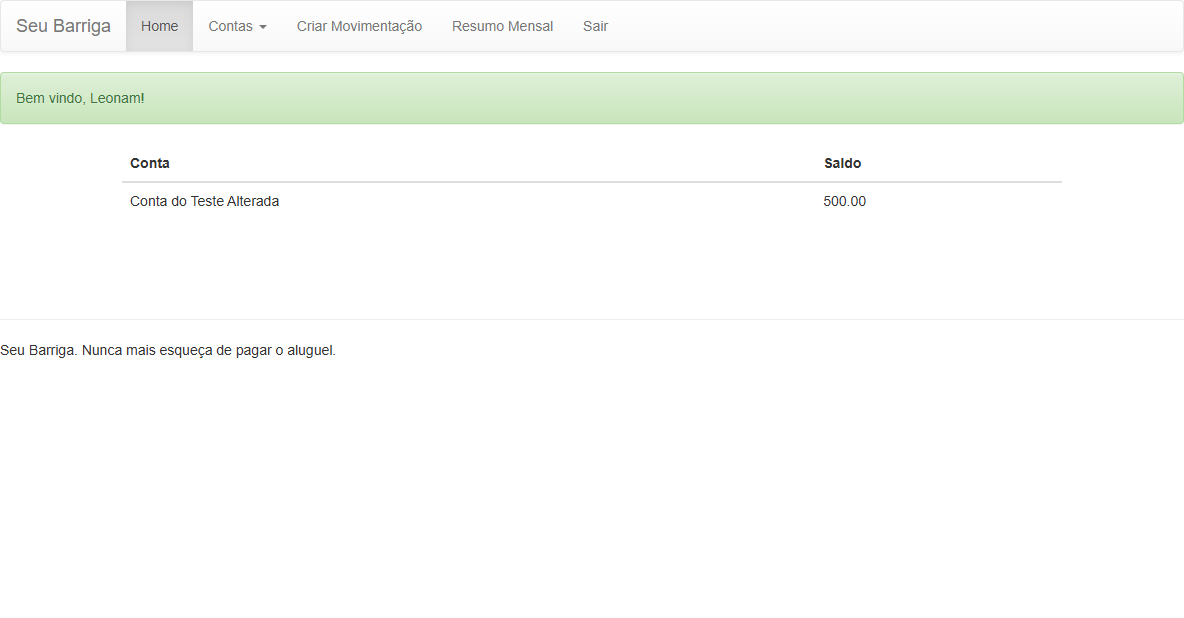
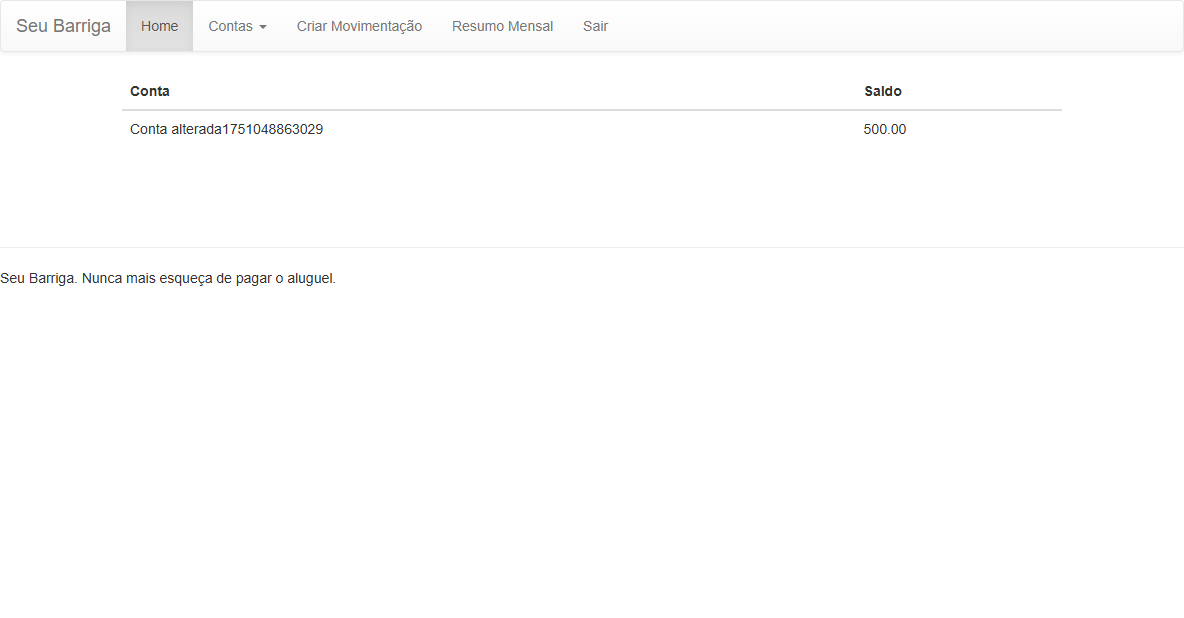
Test: Acelerando a execução

diff --git a/src/main/java/projetobasico/tests/MovimentacaoTest.java b/src/main/java/projetobasico/tests/MovimentacaoTest.java
@@ -13,6 +13,7 @@ import org.junit.Test;
 import org.junit.runners.MethodSorters;
 
 import projetobasico.core.BaseTest;
+import projetobasico.core.Propriedades;
 import projetobasico.pages.MenuPage;
 import projetobasico.pages.MovimentacaoPage;
 
@@ -31,7 +32,7 @@ public class MovimentacaoTest extends BaseTest{
 		movPage.setDescricao("Movimentação do Teste");
 		movPage.setInteressado("Interessado Qualquer");
 		movPage.setValor("500");
-		movPage.setConta("Conta do Teste Alterada");
+		movPage.setConta(Propriedades.NOME_CONTA_ALTERADA);
 		movPage.setStatusPago();
 		movPage.salvar();
 		
@@ -72,7 +73,7 @@ public class MovimentacaoTest extends BaseTest{
 		movPage.setDescricao("Movimentação do Teste");
 		movPage.setInteressado("Interessado Qualquer");
 		movPage.setValor("500");
-		movPage.setConta("Conta do Teste Alterada");
+		movPage.setConta(Propriedades.NOME_CONTA_ALTERADA);
 		movPage.setStatusPago();
 		movPage.salvar();
 		

diff --git a/src/main/java/projetobasico/tests/ContaTest.java b/src/main/java/projetobasico/tests/ContaTest.java
@@ -6,6 +6,7 @@ import org.junit.Test;
 import org.junit.runners.MethodSorters;
 
 import projetobasico.core.BaseTest;
+import projetobasico.core.Propriedades;
 import projetobasico.pages.ContasPage;
 import projetobasico.pages.MenuPage;
 
@@ -39,7 +40,7 @@ public class ContaTest extends BaseTest {
 		menuPage.acessarTelaListarConta();
 		
 		contasPage.clicarAlterarConta("Conta do Teste");
-		contasPage.setNome("Conta do Teste Alterada");
+		contasPage.setNome(Propriedades.NOME_CONTA_ALTERADA);
 		contasPage.salvar();
 		
 		Assert.assertEquals("Conta alterada com sucesso!", contasPage.obterMesagemSucesso());
@@ -49,7 +50,7 @@ public class ContaTest extends BaseTest {
 	public void deve3_InserirContaComMesmoNome() {
 		menuPage.acessarTelaInserirConta();
 		
-		contasPage.setNome("Conta do Teste Alterada");
+		contasPage.setNome(Propriedades.NOME_CONTA_ALTERADA);
 		contasPage.salvar();
 		
 		

diff --git a/src/main/java/projetobasico/suites/SuiteGeral.java b/src/main/java/projetobasico/suites/SuiteGeral.java
@@ -1,9 +1,13 @@
 package projetobasico.suites;
 
+import org.junit.AfterClass;
+import org.junit.BeforeClass;
 import org.junit.runner.RunWith;
 import org.junit.runners.Suite;
 import org.junit.runners.Suite.SuiteClasses;
 
+import projetobasico.core.DriverFactory;
+import projetobasico.pages.LoginPage;
 import projetobasico.tests.ContaTest;
 import projetobasico.tests.MovimentacaoTest;
 import projetobasico.tests.RemoverMovimentacaoContaTest;
@@ -21,5 +25,20 @@ import projetobasico.tests.SaldoTest;
 })
 
 public class SuiteGeral {
+	private static LoginPage page = new LoginPage();
+	
+	@BeforeClass
+	public static void inicializa() {
+		page.acessarTelaInicial();
+		
+		page.setEmail("leonam@email.com");
+		page.setSenha("654321");
+		
+		page.entrar();
+	}
 
+	@AfterClass
+	public static void finaliza() {
+		DriverFactory.killDriver();
+	}
 }

diff --git a/src/main/java/projetobasico/core/BaseTest.java b/src/main/java/projetobasico/core/BaseTest.java
@@ -9,30 +9,15 @@ import java.io.IOException;
 import org.apache.commons.io.FileUtils;
 
 import org.junit.After;
-import org.junit.Before;
 import org.junit.Rule;
 import org.junit.rules.TestName;
 import org.openqa.selenium.OutputType;
 import org.openqa.selenium.TakesScreenshot;
 
-import projetobasico.pages.LoginPage;
-
 public class BaseTest {
-	
-	private LoginPage page = new LoginPage();
-	
+		
 	@Rule
 	public TestName testName = new TestName();
-	
-	@Before
-	public void inicializa() {
-		page.acessarTelaInicial();
-		
-		page.setEmail("leonam@email.com");
-		page.setSenha("654321");
-		
-		page.entrar();
-	}
 	
 	@After
 	public void finaliza() throws IOException {

diff --git a/src/main/java/projetobasico/tests/SaldoTest.java b/src/main/java/projetobasico/tests/SaldoTest.java
@@ -3,14 +3,19 @@ package projetobasico.tests;
 import org.junit.Assert;
 import org.junit.Test;
 import projetobasico.core.BaseTest;
+import projetobasico.core.Propriedades;
 import projetobasico.pages.HomePage;
+import projetobasico.pages.MenuPage;
 
 public class SaldoTest extends BaseTest {
 	
-	HomePage homePage = new HomePage();
+	HomePage page = new HomePage();
+	MenuPage menu = new MenuPage();
 
 	@Test
 	public void deveTrazerSaldoConta() {
-		Assert.assertEquals("500.00", homePage.obterSaldoConta("Conta do Teste Alterada"));
+		menu.acessarTelaPrincipal();
+		
+		Assert.assertEquals("500.00", page.obterSaldoConta(Propriedades.NOME_CONTA_ALTERADA));
 	}
 }

diff --git a/src/main/java/projetobasico/tests/RemoverMovimentacaoContaTest.java b/src/main/java/projetobasico/tests/RemoverMovimentacaoContaTest.java
@@ -4,6 +4,7 @@ import org.junit.Assert;
 import org.junit.Test;
 
 import projetobasico.core.BaseTest;
+import projetobasico.core.Propriedades;
 import projetobasico.pages.ContasPage;
 import projetobasico.pages.MenuPage;
 
@@ -16,7 +17,7 @@ public class RemoverMovimentacaoContaTest extends BaseTest{
 	public void deveRetornarErroAoExcluirContaComMovimentacao() {
 		menuPage.acessarTelaListarConta();
 		
-		contasPage.clicarExcluirConta("Conta do Teste Alterada");
+		contasPage.clicarExcluirConta(Propriedades.NOME_CONTA_ALTERADA);
 		
 		Assert.assertEquals("Conta em uso na movimentações", contasPage.obterMensagemErro());
 	}

diff --git a/src/main/java/projetobasico/core/Propriedades.java b/src/main/java/projetobasico/core/Propriedades.java
@@ -2,9 +2,11 @@ package projetobasico.core;
 
 public class Propriedades {
 
-	public static boolean FECHAR_BROWSER = true;
+	public static boolean FECHAR_BROWSER = false;
 	
 	public static Browsers browser = Browsers.CHROME;
+	
+	public static String NOME_CONTA_ALTERADA = "Conta alterada" + System.currentTimeMillis();
 	
 	public enum Browsers {
 		CHROME,

diff --git a/src/main/java/projetobasico/pages/MenuPage.java b/src/main/java/projetobasico/pages/MenuPage.java
@@ -22,4 +22,8 @@ public class MenuPage extends BasePage {
 		clicaLink("Resumo Mensal");
 	}
 	
+	public void acessarTelaPrincipal() {
+		clicaLink("Home");
+	}
+	
 }
